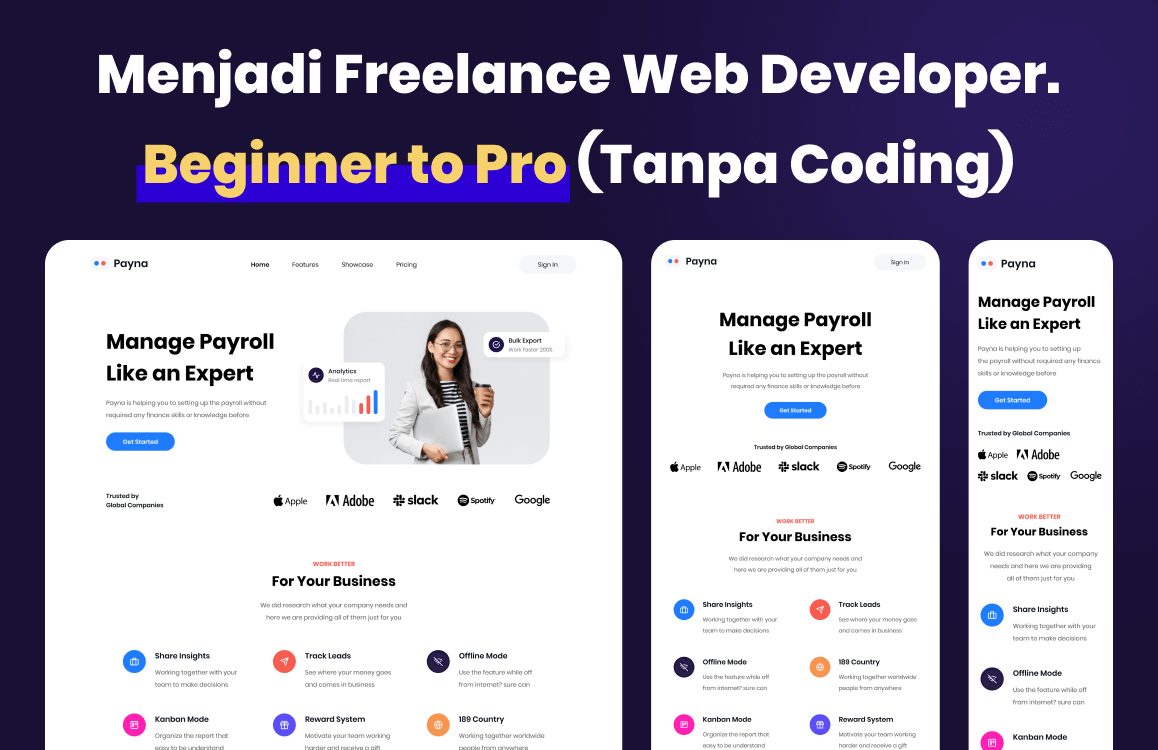
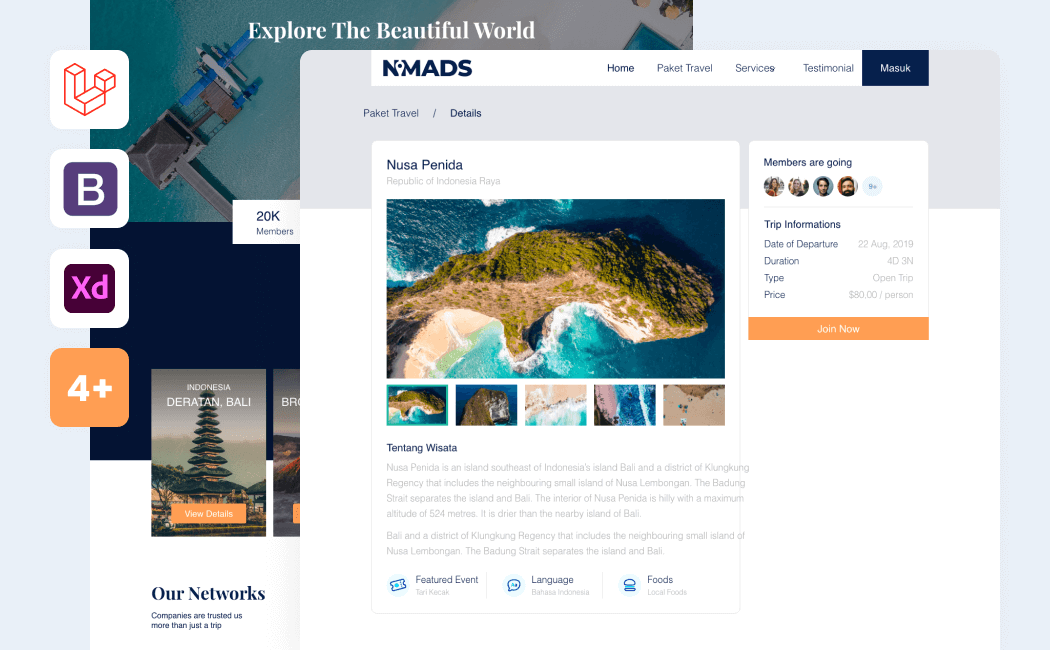
docs: update README with project details and installation instructions

diff --git a/README.md b/README.md
@@ -1,1 +1,40 @@
-### my portfolio
+# My Portfolio
+
+This is a personal portfolio website built using Webpack. It showcases my projects, skills, and experiences.
+
+## Features
+- Responsive design
+- Interactive UI
+- Project showcase
+- Contact form
+
+## Installation
+1. Clone the repository:
+   ```bash
+   git clone https://github.com/ilzamafif/portfolio-webpack.git
+   ```
+2. Navigate to the project directory:
+   ```bash
+   cd portfolio-webpack
+   ```
+3. Install dependencies:
+   ```bash
+   npm install
+   ```
+
+## Usage
+To start the development server:
+```bash
+npm start
+```
+
+To build the project for production:
+```bash
+npm run build
+```
+
+## Contributing
+Feel free to submit issues or pull requests.
+
+## License
+This project is licensed under the MIT License.
